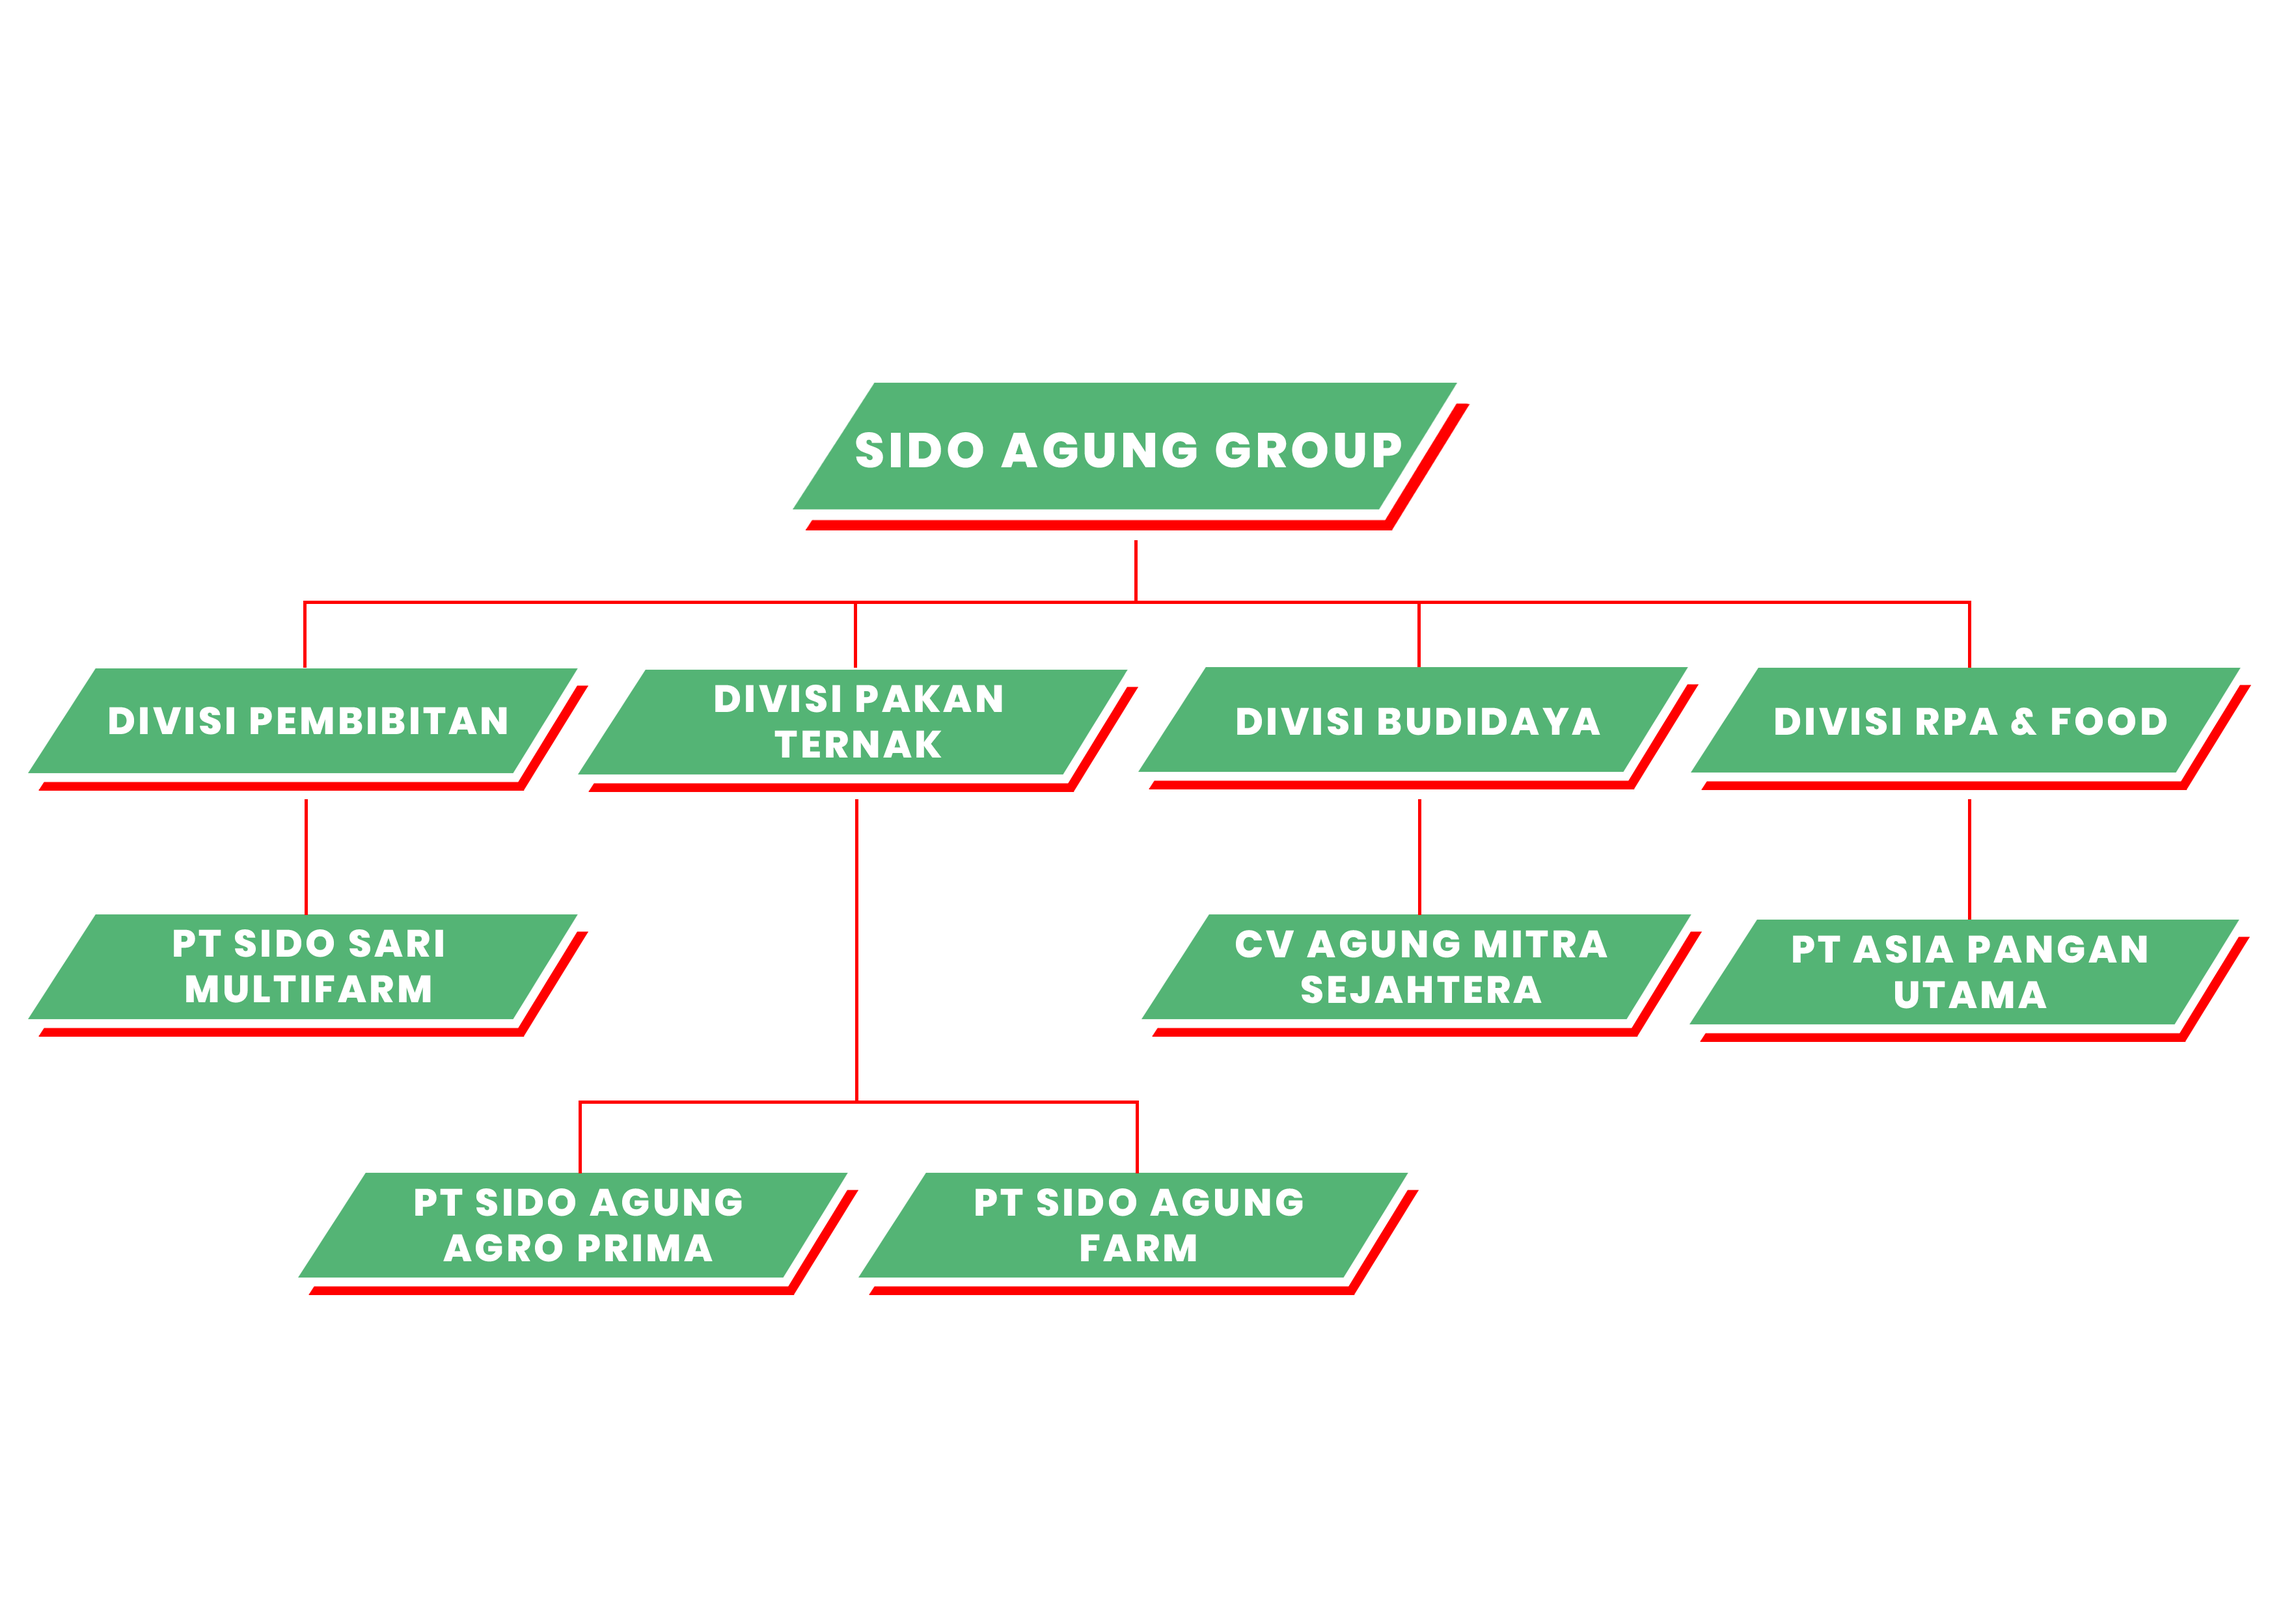
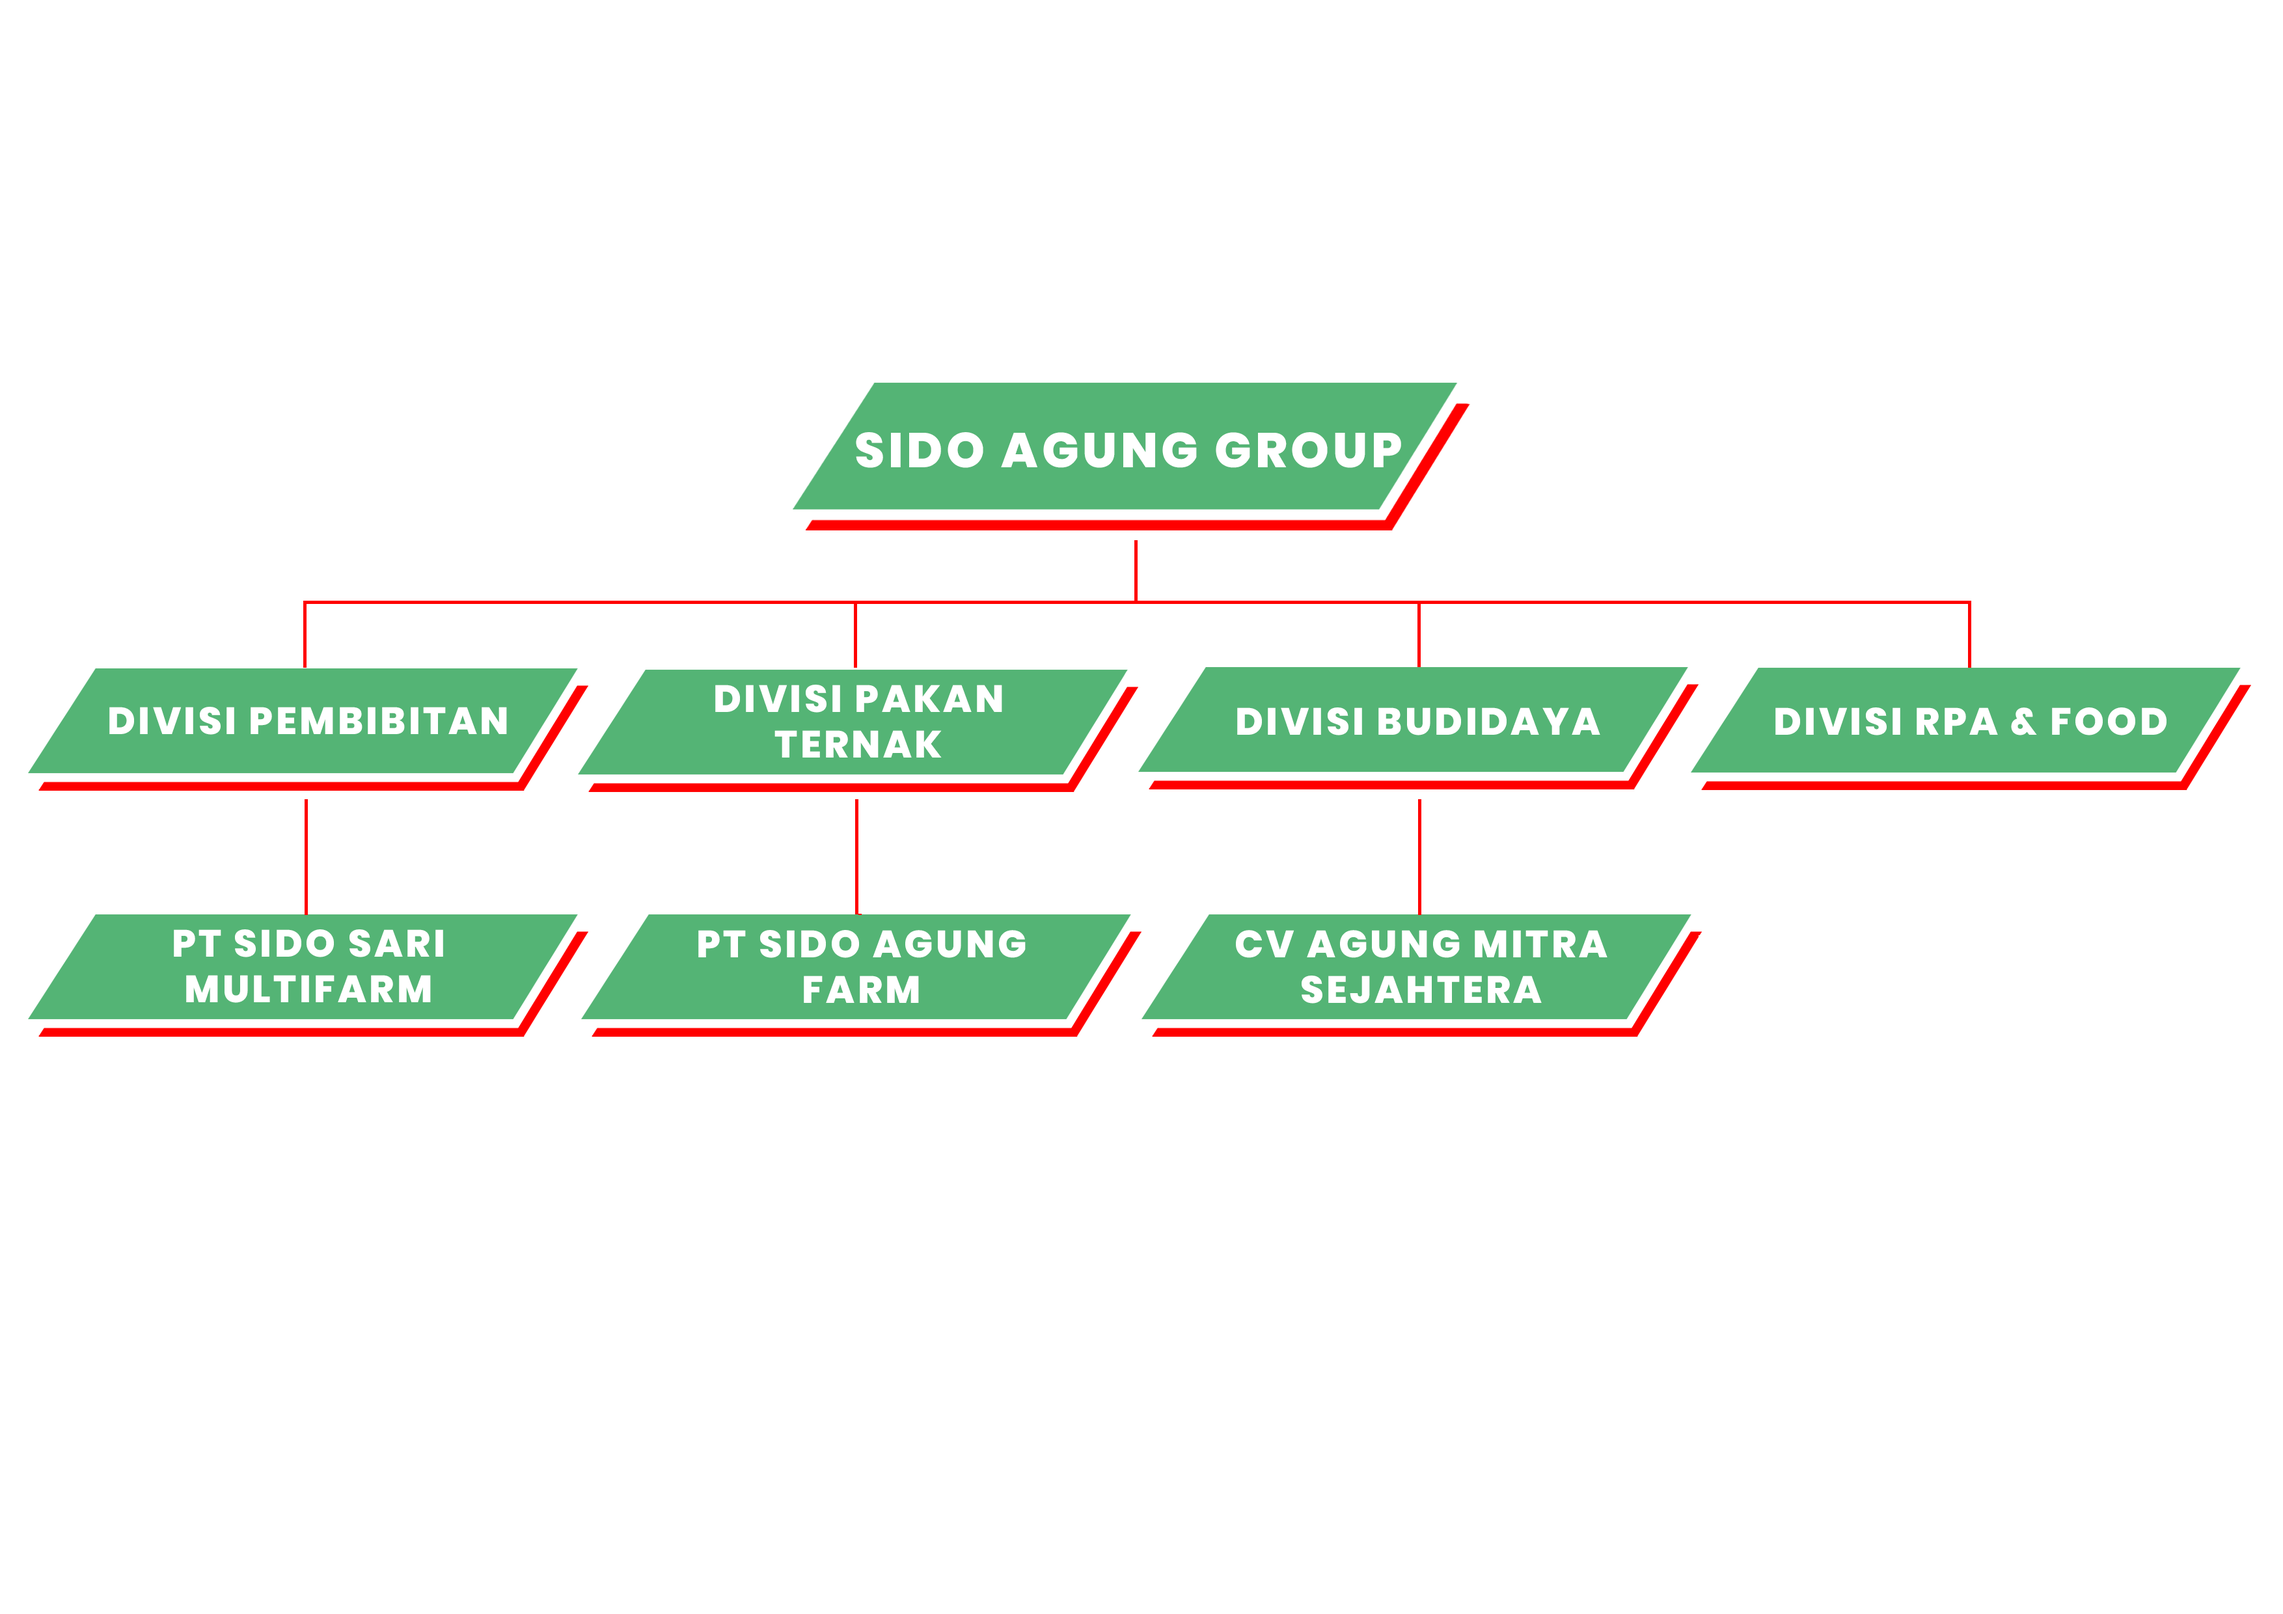
Update Struktur Korporasi and Page Summary

Changed region(s): [[0.1243, 0.7141, 0.6214, 0.8073], [0.7457, 0.5589, 0.9943, 0.652], [0.2486, 0.5589, 0.4971, 0.652]]

diff --git a/resources/views/we/summary.blade.php b/resources/views/we/summary.blade.php
@@ -70,15 +70,15 @@
                      <div class="circle-text"></div>
                      <div class="pl-5 pb-5 pt-5 ">
                          <h5 class="text-primary mb-2">Sido Agung Group</h5>
-                         {{-- <p class="mb-2">Ruko Garden Shopping Arcade Madison Park Unit 9CE, Central Park, Jln. LetJend. S. Parman, Tanjung Duren Selatan, Grogol, Jakarta Barat 11470</p>--}}
-						 <p>JLN. AIP KS TUBUN IIC NO.30, SLIPI, PALMERAH, JAKARTA BARAT 11410</p>
+                         <!-- <p class="mb-2">Ruko Garden Shopping Arcade Madison Park Unit 9CE, Central Park, Jln. LetJend. S. Parman, Tanjung Duren Selatan, Grogol, Jakarta Barat 11470</p> -->
+						 <p>Jl. AIP KS Tubun IIC NO.30, Slipi, Palmerah, Jakarta Barat 11410</p>
                          <p class="mb-0">
 							<a class="contactus-text" href="tel:+6282125998700"><i class="fas fa-fax"></i> 0821-2599-8700</a> 
                          </p>
                      </div>
                  </div>
 
-                    <div class="col-md-12 bg-white border-radius mt-3">
+                    <!-- <div class="col-md-12 bg-white border-radius mt-3">
                         <div class="circle-text"></div>
                         <div class="pl-5 pb-5 pt-5 ">
                             <h5 class="text-primary mb-2">PT. Sido Agung Agro Prima</h5>
@@ -90,7 +90,7 @@
 								<a class="contactus-text" href="tel:+6282125998700"><i class="fas fa-fax"></i> 0821-2599-8700</a> 
 							 </p>
                         </div>
-                    </div>
+                    </div> -->
 
                     <div class="col-md-12 bg-white border-radius mt-3">
                         <div class="circle-text"></div>
@@ -117,7 +117,7 @@
                         </div>
                      </div>
                      
-                     <div class="col-md-12 bg-white border-radius mt-3">
+                     <!-- <div class="col-md-12 bg-white border-radius mt-3">
                         <div class="circle-text"></div>
                         <div class="pl-5 pb-5 pt-5 ">
                            <h5 class="text-primary mb-2">PT. Asia Pangan Utama</h5> 
@@ -126,9 +126,9 @@
 								<a class="contactus-text" href="tel:+6282125998700"><i class="fas fa-fax"></i> 0821-2599-8700</a> 
 							 </p>
                         </div>
-                     </div>
+                     </div> -->
 
-                     {{-- <div class="col-md-12 bg-white border-radius mt-3">
+                     <!-- <div class="col-md-12 bg-white border-radius mt-3">
                         <div class="circle-text"></div>
                         <div class="pl-5 pb-5 pt-5 ">
                            <h5 class="text-primary mb-2">PT. Sidoagung Foods Processing</h5>
@@ -137,7 +137,7 @@
                               <a class="contactus-text" href="tel:+6281221725758"><i class="fas fa-fax"></i> 0812-2172-5758</a>
                             </p>
                         </div>
-                     </div> --}}
+                     </div> -->
                 </div>
             </div>
         </div>

diff --git a/tests/Feature/CsrDetailViewCountTest.php b/tests/Feature/CsrDetailViewCountTest.php
@@ -1,0 +1,73 @@
+<?php
+
+namespace Tests\Feature;
+
+use App\Models\CSR;
+use App\Models\News;
+use Illuminate\Database\Schema\Blueprint;
+use Illuminate\Support\Facades\DB;
+use Illuminate\Support\Facades\Schema;
+use Tests\TestCase;
+
+class CsrDetailViewCountTest extends TestCase
+{
+    protected function setUp(): void
+    {
+        parent::setUp();
+
+        config([
+            'database.default' => 'sqlite',
+            'database.connections.sqlite.database' => ':memory:',
+        ]);
+        DB::purge();
+
+        foreach (['csr', 'news'] as $tableName) {
+            Schema::create($tableName, function (Blueprint $table) use ($tableName) {
+                $table->id();
+                $table->string('title')->nullable();
+                $table->string('thumbnail')->nullable();
+                $table->string('releasedate')->nullable();
+                $table->text('content')->nullable();
+                $table->integer('viewer')->default(0);
+                $table->string('mode')->nullable();
+                if ($tableName === 'news') {
+                    $table->string('author')->nullable();
+                }
+                $table->boolean('publish')->default(0);
+                $table->timestamps();
+            });
+        }
+    }
+
+    public function test_opening_news_detail_increments_its_view_count()
+    {
+        $news = News::create([
+            'title' => 'News Title',
+            'thumbnail' => 'news-thumbnail',
+            'mode' => 'news',
+            'releasedate' => '2024-01-01',
+        ]);
+
+        $this->get('/csr/getDetail?mode=news&slug=news-title')
+            ->assertOk()
+            ->assertSee('>1</a>', false);
+
+        $this->assertSame(1, $news->fresh()->viewer);
+    }
+
+    public function test_opening_csr_detail_increments_its_view_count()
+    {
+        $csr = CSR::create([
+            'title' => 'CSR Title',
+            'thumbnail' => 'csr-thumbnail',
+            'mode' => 'sosial',
+            'releasedate' => '2024-01-01',
+        ]);
+
+        $this->get('/csr/getDetail?mode=sosial&slug=csr-title')
+            ->assertOk()
+            ->assertSee('>1</a>', false);
+
+        $this->assertSame(1, $csr->fresh()->viewer);
+    }
+}
